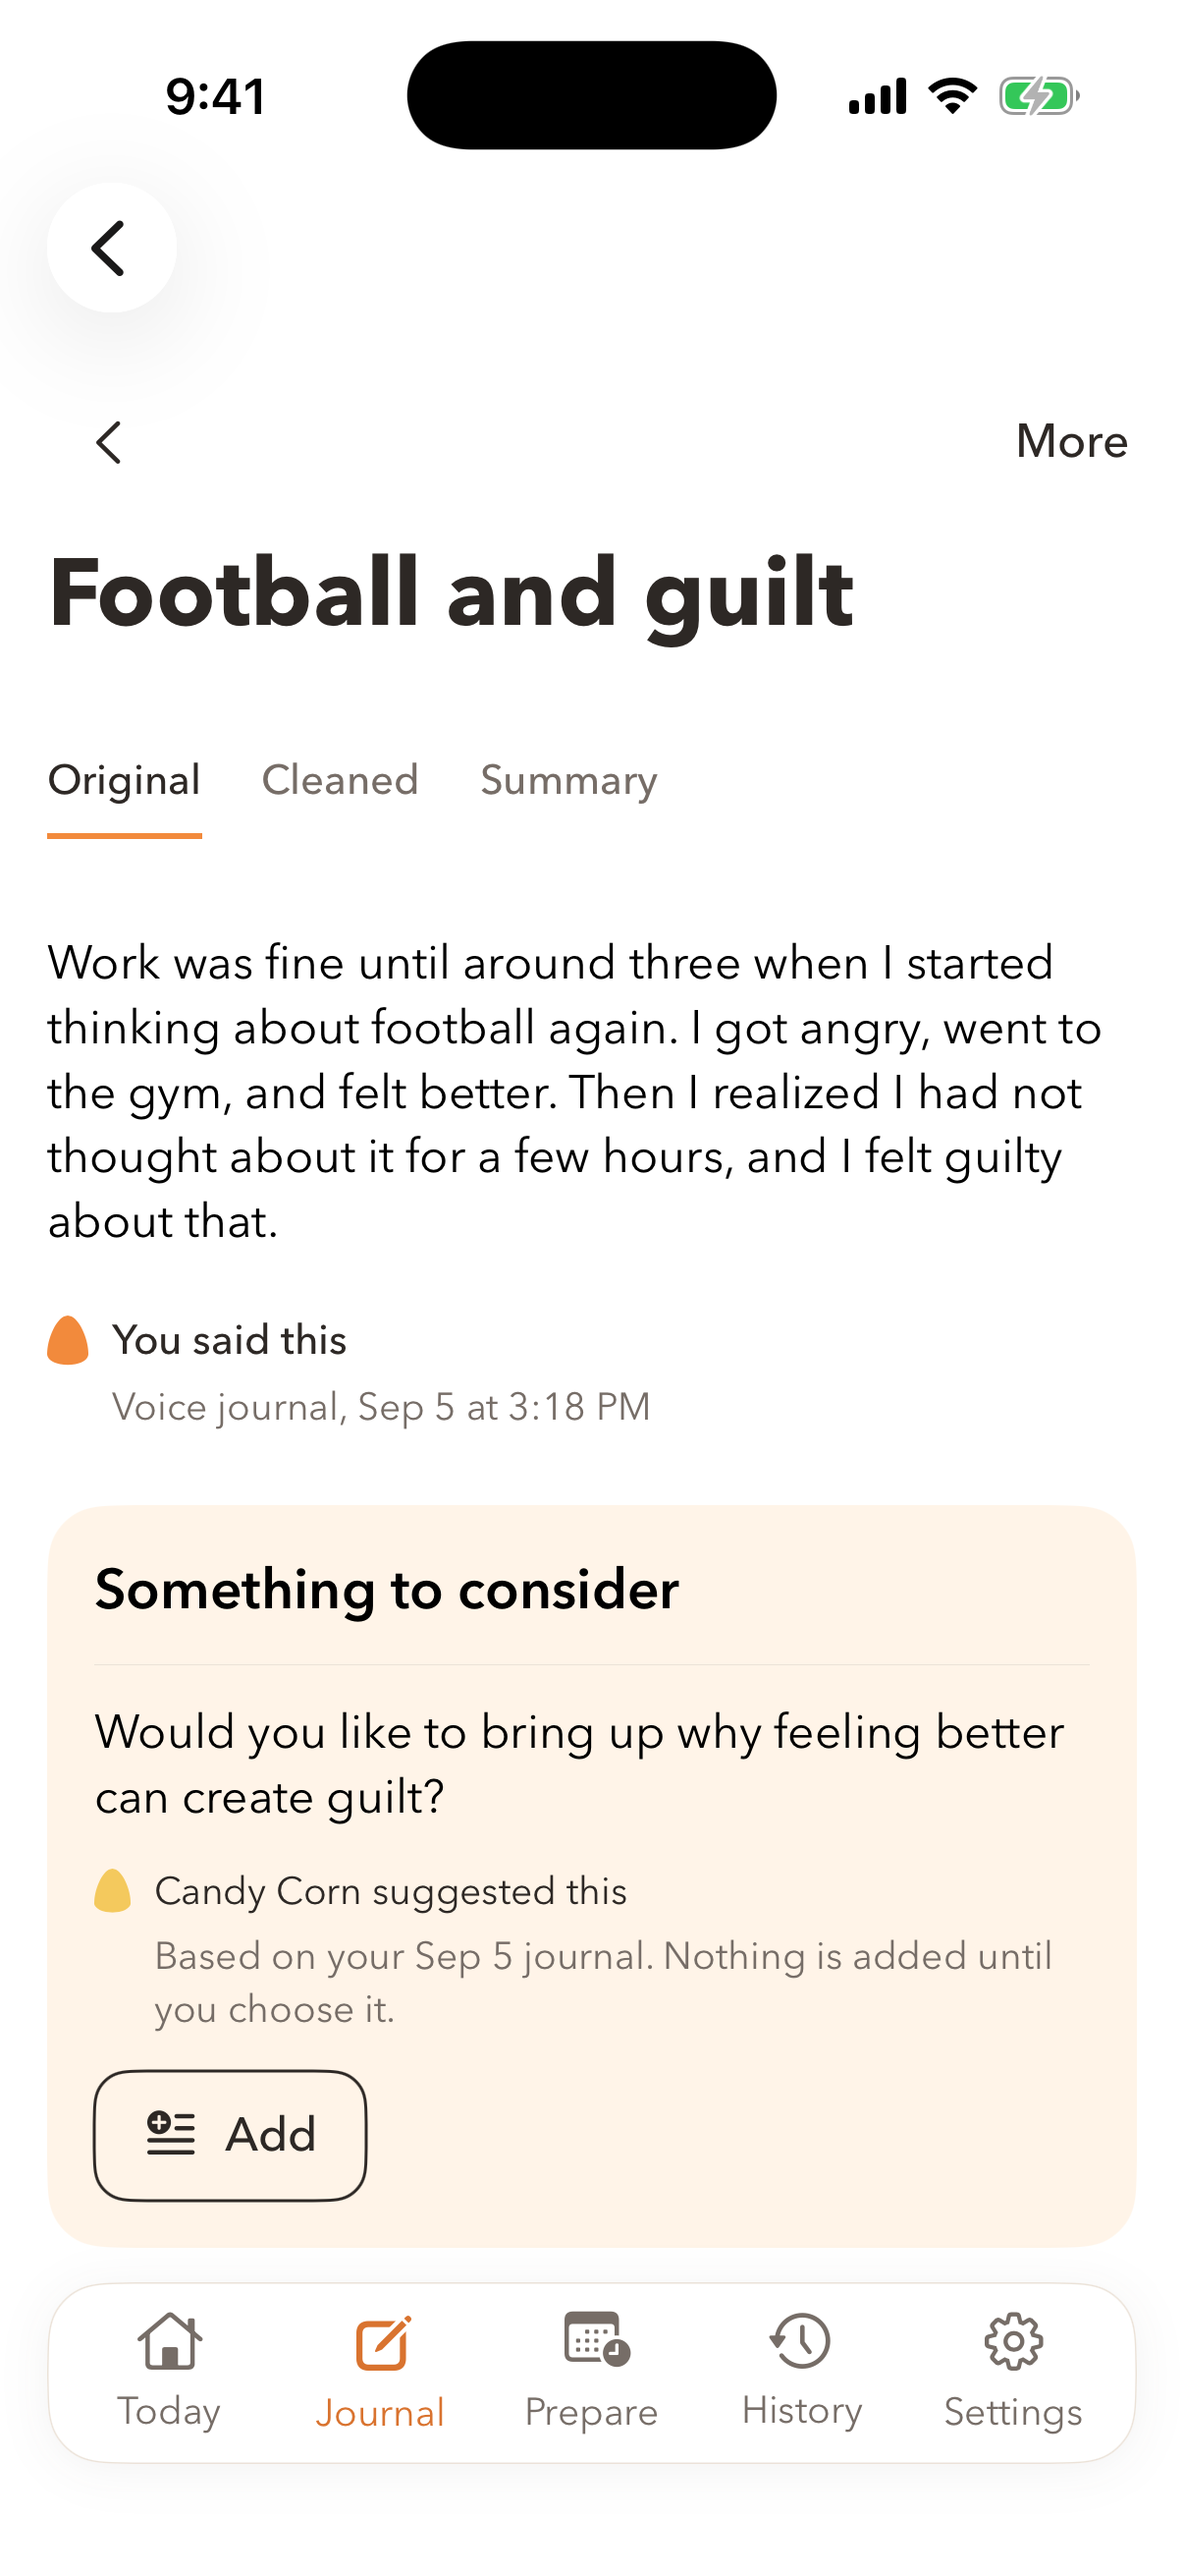
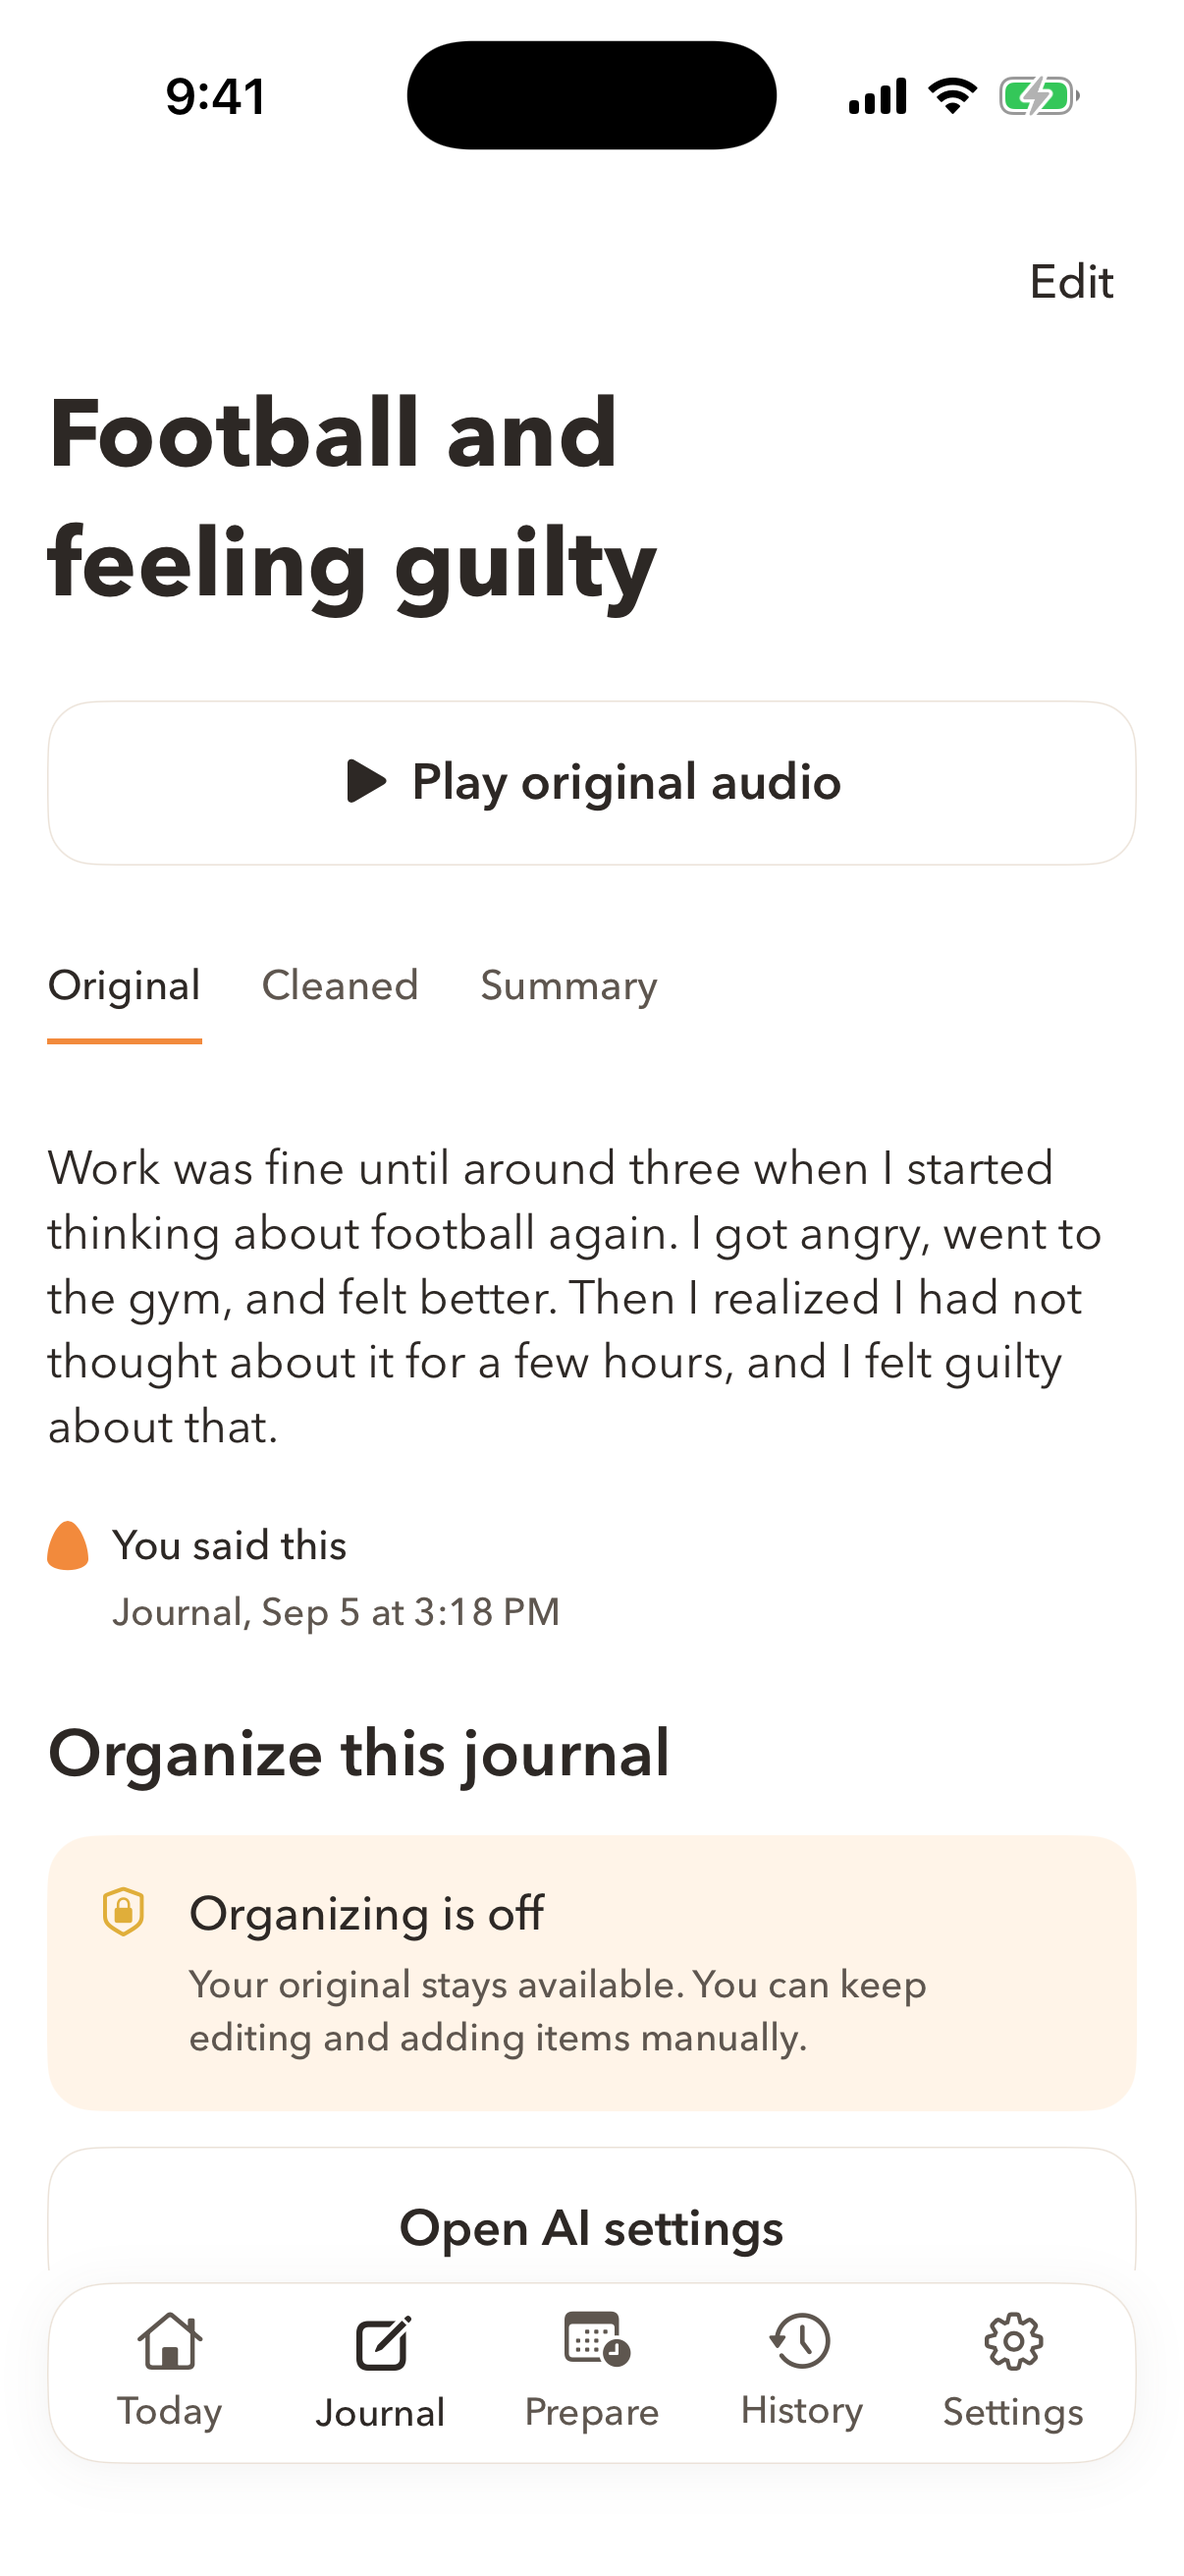
Screenshots: 29 host captures of merged Phase 2 and 3 main; comparison status

diff --git a/apps/candycorn-ios/screenshots/COMPARISON.md b/apps/candycorn-ios/screenshots/COMPARISON.md
@@ -1,3 +1,17 @@
+# Host capture status, September 3, 2026, 2:30 AM
+
+All 29 PNGs in this directory are real iPhone 17 Pro (iOS 26.5) captures of the merged Phase 2 plus Phase 3 main (commit 9183bf1 plus the test fix), taken on the host with `-screen <route>` and `-sheet <scenario>`. The app builds on the iPhone 17 simulator once the SQLCipher artifact is pre-placed (see docs/HANDOFF-2026-09-02.md, Keychain hang).
+
+Observed against the goals:
+- Phase 2 shell fixes are visible: mood bands without the pill clip, minus and plus controls with drag on the check-in, no floating back button on Goals, Today's dead zone filled, product copy on Privacy.
+- Journal detail shows Play original audio, the Original, Cleaned, Summary tabs, and an honest "Organizing is off" state with Open AI settings.
+- The OpenRouter key sheet (25) and the journal disclosure sheet (26) open and read correctly: destination OpenRouter, 215 characters, Send and Cancel.
+- Photo disclosure (27) opens on the photo journal route.
+- Session disclosure (28) and prepare disclosure (29) did NOT open: the captures show the underlying screens with no sheet, confirming the missing `session-send` and `prepare-send` triggers noted below. These two remain open for Nyx.
+- The voice route (05) now shows the real pre-recording screen with the microphone note and a Talk button; the live timer appears after the tap, so it is not in a static capture.
+
+The worker-written sections below are retained as the record of what could not be verified inside the sandbox.
+
 # Phase 3 native acceptance comparison
 
 Status on September 3, 2026: Blocked before native compilation, test execution, simulator interaction, accessibility inspection, and Phase 3 capture. XcodeGen succeeded, but the managed macOS session could not connect to CoreSimulatorService and SwiftPM could not write its manifest diagnostics cache. No stale screenshot is presented as Phase 3 proof.
